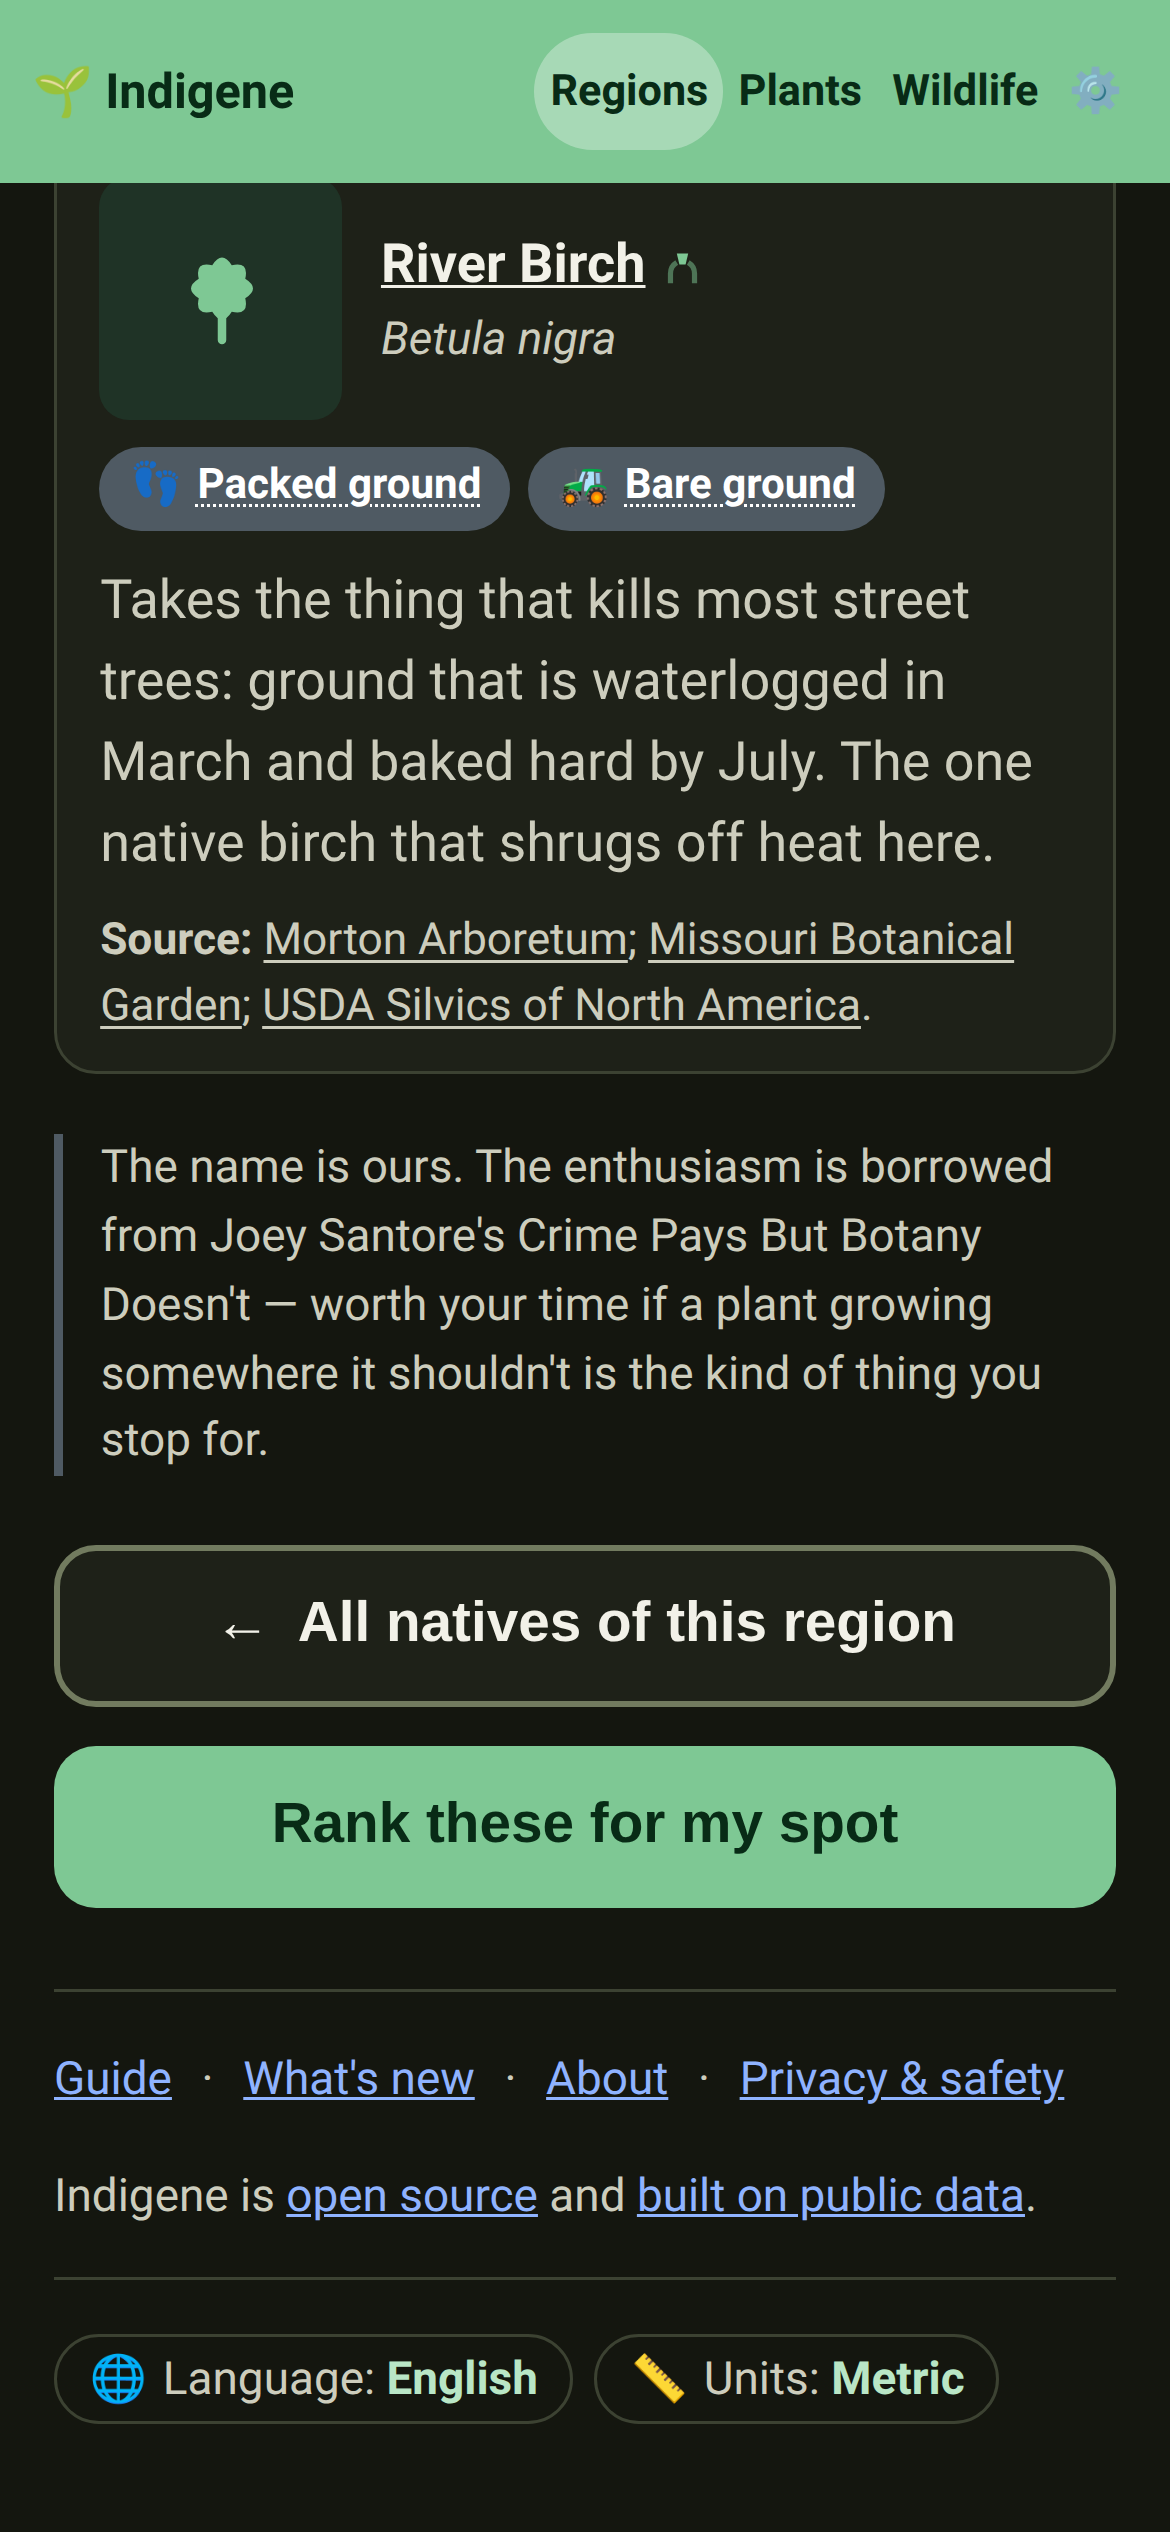
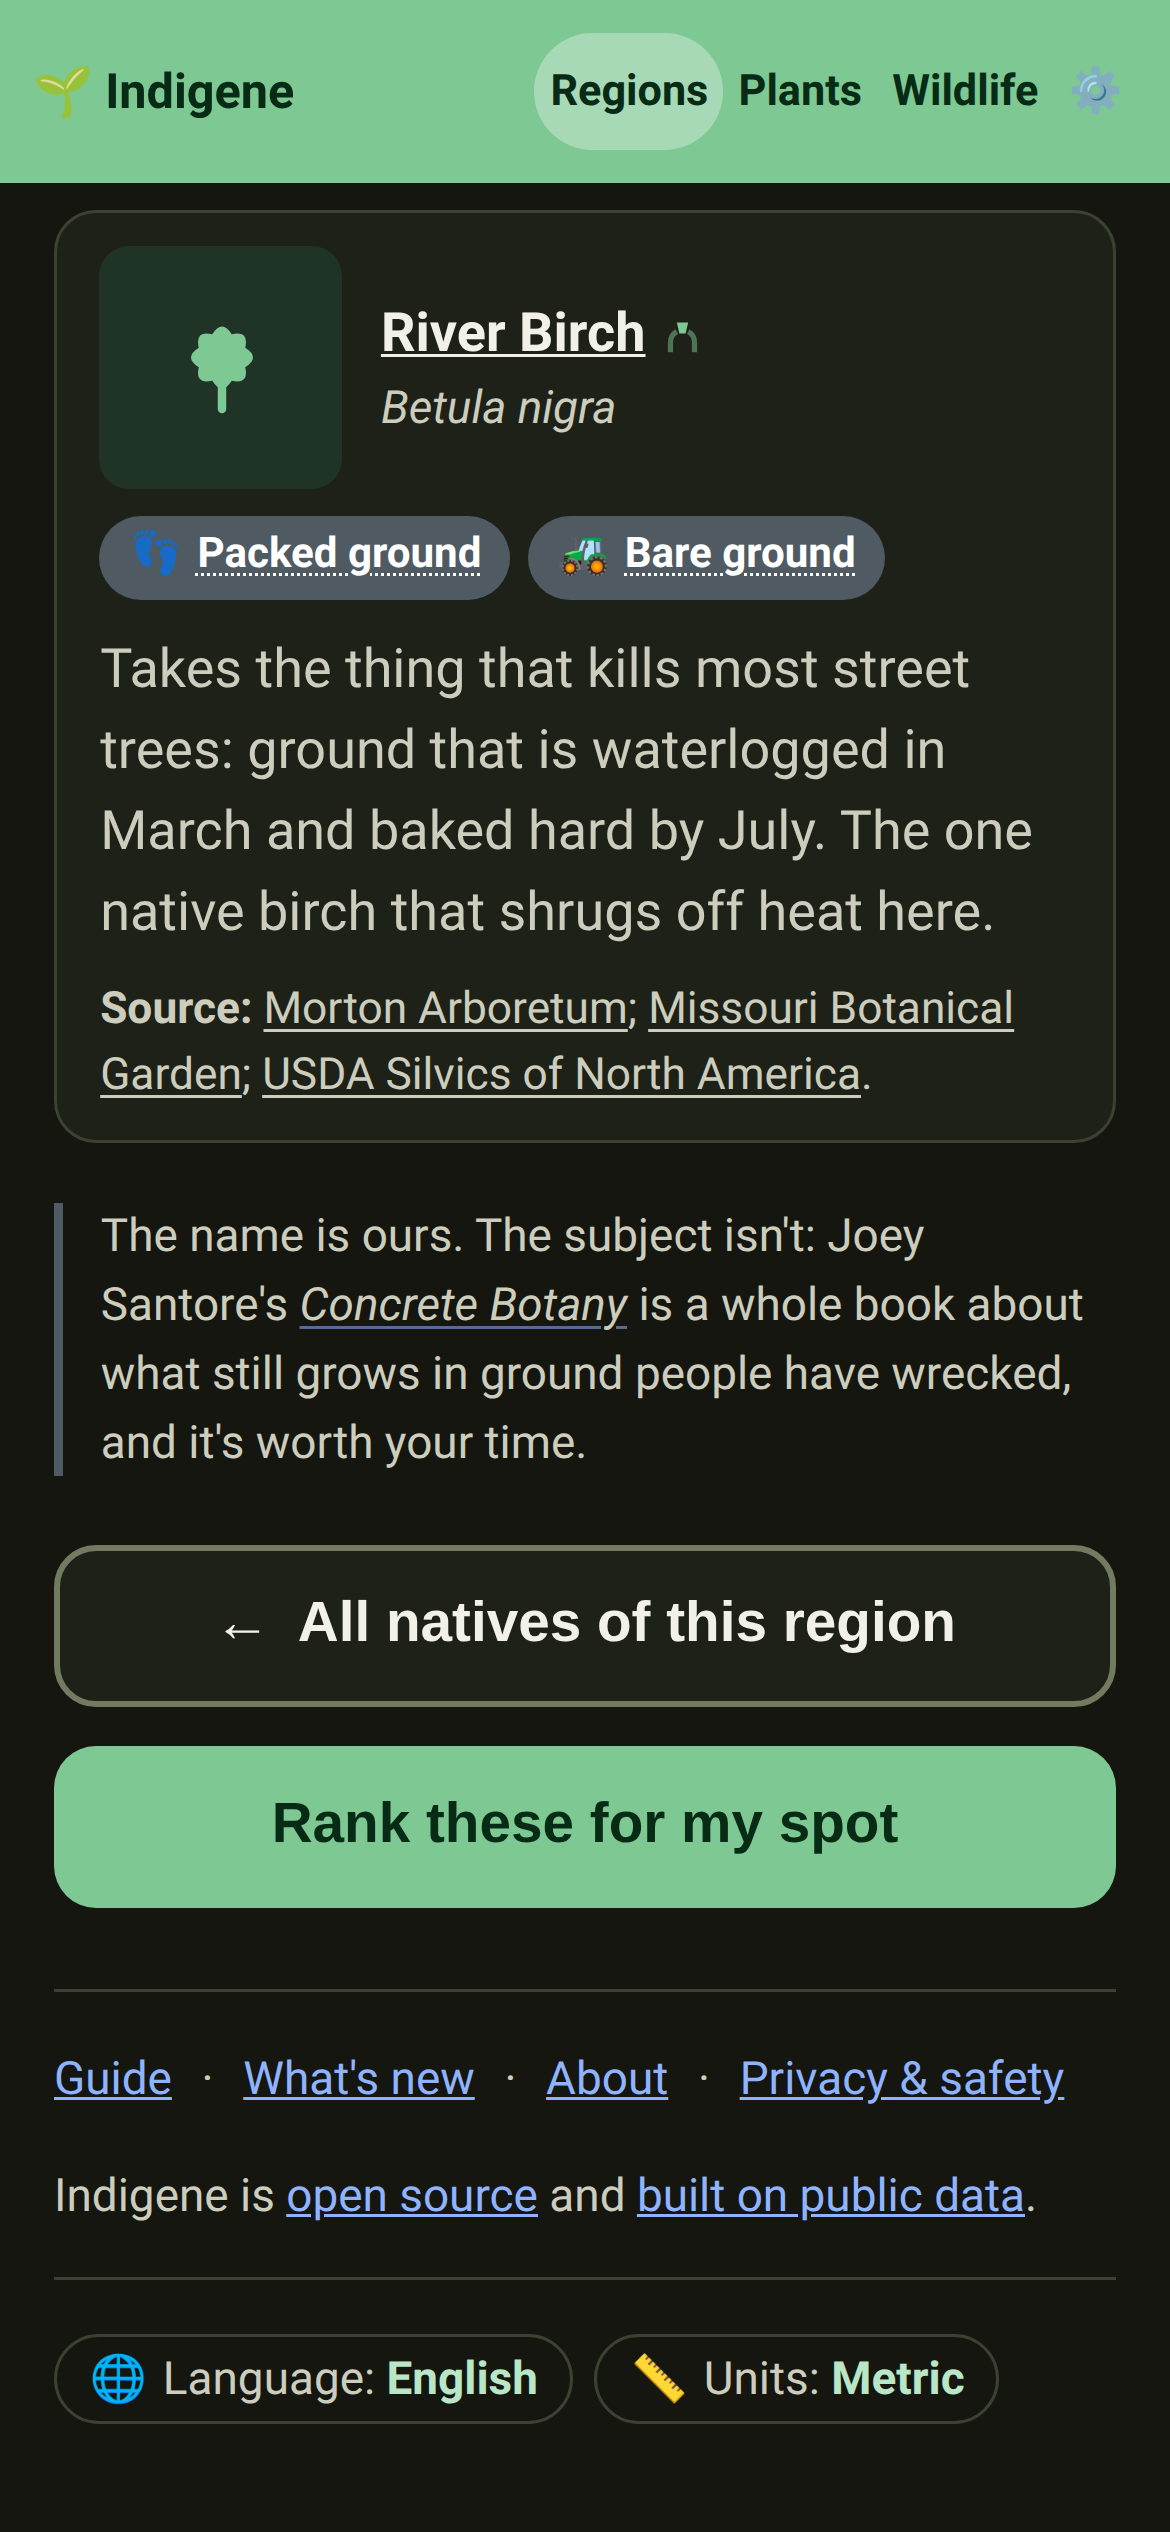
Point the credit at Concrete Botany, Joey Santore's own book
He has a book on precisely this subject — "Concrete Botany: The Ecology of
Plants in the Age of Human Disturbance" (Cool Springs Press, 2026) — which
is a far better thing to send a reader to than a line about borrowed
enthusiasm. The closing line now recommends it, with the title a real link
to his own site rather than to a bookshop.

It stays a recommendation, not a tribute: he had no part in this list, and
the comments beside the string say so. The feature keeps its own name for
the same reason — calling it "Concrete botany" would be taking his title,
not nodding at it.

The title is rendered through `tx()` so a translator can put it where the
sentence wants it, and `.pioneers-credit` joins the quiet-link rule, so a
link in running text doesn't read as a paragraph of blue.

Claude-Session: https://claude.ai/code/session_01U3cNzL1pWVvwMeWKm6oVEn

Changed region(s): [[0.0615, 0.0624, 0.9231, 0.5928], [0.9231, 0.4056, 0.9538, 0.4368], [0.0308, 0.4368, 0.0615, 0.468]]

diff --git a/app/src/steps/region.ts b/app/src/steps/region.ts
@@ -22,11 +22,11 @@ import { wildlifeRegionGroups } from "../components/wildlife-chips";
 import { wildlifeIndex } from "../lib/wildlife";
 import { pioneerCard } from "../components/pioneer-card";
 import { pioneersForRegion, pioneerCountForRegion } from "../lib/pioneers";
-import { PIONEER_ICON } from "../data/pioneers";
+import { PIONEER_ICON, CONCRETE_BOTANY_URL } from "../data/pioneers";
 import { regionRefLine, zoneChip } from "../components/zone-chip";
 import { regionBoundaryCard } from "../components/region-boundary";
 import type { Plant, PlantForm } from "../types";
-import { t, tn, fmtNumber, getLang } from "../lib/i18n";
+import { t, tn, tx, fmtNumber, getLang } from "../lib/i18n";
 import { commonName, nameLines, regionName, regionNote, regionReference, localNameCoverage } from "../lib/names";
 import { flagRow } from "../components/flags";
 import { prose } from "../lib/prose";
@@ -248,7 +248,15 @@ function renderPioneers(main: HTMLElement, region: RegionDef, plants: Plant[]): 
     categoryChips(region, plants, PIONEERS_SLUG),
     el("div", { class: "card-grid" },
       picks.map((pick) => pioneerCard(pick, region.meta.id, { full: true }))),
-    el("p", { class: "pioneers-credit" }, t("pioneers.credit")),
+    // The book is a real link, placed by the translator rather than by this
+    // code: `tx` lets French put the title where the sentence wants it.
+    el("p", { class: "pioneers-credit" }, tx("pioneers.credit", {
+      book: el("a", {
+        href: CONCRETE_BOTANY_URL,
+        target: "_blank",
+        rel: "noopener",
+      }, el("cite", {}, t("pioneers.creditBook"))),
+    })),
     el("div", { class: "btn-row", style: "margin-top:1.25rem" }, [
       el("button", { class: "btn btn-secondary", onClick: () => navigate(`regions/${region.meta.id}`) }, t("region.allOfRegion")),
       el("button", { class: "btn btn-primary", onClick: () => navigate("location") }, t("wildlife.rankForSpot")),

diff --git a/app/src/locales/fr.ts b/app/src/locales/fr.ts
@@ -1792,8 +1792,8 @@ export const fr: Dict = {
   // ---------------------------------------------------------------------
   // Les pionnières du bitume — la courte liste pour le sol qu'une ville
   // offre vraiment. Le nom est de nous : Joey Santore ne l'a pas inventé et
-  // n'a pris aucune part à la liste, donc la ligne de fin salue sa chaîne
-  // sans parler en son nom. Le titre de la chaîne reste en anglais.
+  // n'a pris aucune part à la liste, donc la ligne de fin recommande son
+  // livre sans parler en son nom. Son titre reste en anglais, non traduit.
   // ---------------------------------------------------------------------
   "pioneers.title": "Pionnières du bitume",
   "pioneers.chip": "Pionnières",
@@ -1808,7 +1808,8 @@ export const fr: Dict = {
     "Nous n'avons pas encore déterminé lesquelles de nos indigènes de {region} supportent ce genre de traitement.",
   "pioneers.basis": "Source :",
   "pioneers.credit":
-    "Le nom est de nous. L'enthousiasme, nous l'avons emprunté à Crime Pays But Botany Doesn't, la chaîne de Joey Santore — à voir si une plante qui pousse là où elle ne devrait pas est le genre de chose qui vous arrête.",
+    "Le nom est de nous. Le sujet, non : {book}, de Joey Santore, est un livre entier sur ce qui pousse encore là où l\'on a saccagé le sol. Il vaut le détour.",
+  "pioneers.creditBook": "Concrete Botany",
 
   // Ce que chacune encaisse. Le terme tient dans l'étiquette ; les mots
   // simples s'ouvrent d'une touche, parce que « tassement » est un mot de

diff --git a/app/src/locales/en.ts b/app/src/locales/en.ts
@@ -1801,8 +1801,8 @@ export const en = {
   // ---------------------------------------------------------------------
   // Pavement pioneers — the short list for ground a city actually offers.
   // The name is this repo's; Joey Santore neither coined it nor had any part
-  // in the list, so the credit line is a nod to the channel, not a claim of
-  // involvement. Don't let it drift back into speaking for him.
+  // in the list, so the credit line recommends his book and never speaks for
+  // him. Don't let it drift back into claiming he was involved.
   // ---------------------------------------------------------------------
   "pioneers.title": "Pavement pioneers",
   "pioneers.chip": "Pioneers",
@@ -1817,7 +1817,8 @@ export const en = {
     "We haven't worked out which of our {region} natives take that kind of punishment yet.",
   "pioneers.basis": "Source:",
   "pioneers.credit":
-    "The name is ours. The enthusiasm is borrowed from Joey Santore's Crime Pays But Botany Doesn't — worth your time if a plant growing somewhere it shouldn't is the kind of thing you stop for.",
+    "The name is ours. The subject isn't: Joey Santore's {book} is a whole book about what still grows in ground people have wrecked, and it's worth your time.",
+  "pioneers.creditBook": "Concrete Botany",
 
   // The abuse each one takes. The term is the chip; the plain words open on a
   // tap, because "compaction" is a word from an engineering report.

diff --git a/app/src/data/pioneers.ts b/app/src/data/pioneers.ts
@@ -13,10 +13,22 @@
 //      ninth candidate is better than one already here, swap it; don't append.
 //
 // "Pavement pioneers" is this repo's own name — nobody else's phrase to get
-// wrong. The page's closing line nods to Joey Santore's Crime Pays But Botany
-// Doesn't for the enthusiasm; he had no part in the list, and the credit must
-// not drift into implying he did.
+// wrong, and deliberately not his book's title, which would be taking
+// something rather than nodding at it.
+//
+// The page's closing line points at that book instead: Joey Santore's
+// `Concrete Botany: The Ecology of Plants in the Age of Human Disturbance`
+// (Cool Springs Press, 2026) is about this layer's exact subject — what still
+// grows in ground people have wrecked. He had no part in this list, so the
+// credit recommends his work and never speaks for him. Keep it that way.
+//
+// Linked to his own site rather than a bookshop: a recommendation should send
+// a reader to the person, not to a retailer.
 import type { PioneerEntry, PioneerPressure } from "../types";
+
+/** Joey Santore's own site, where `Concrete Botany` lives. See the note above
+ *  for why this link is to him and not to a bookshop. */
+export const CONCRETE_BOTANY_URL = "https://www.crimepaysbutbotanydoesnt.com/";
 
 /**
  * The pressures, in the order they're shown wherever several appear together.

diff --git a/app/src/styles.css b/app/src/styles.css
@@ -152,6 +152,7 @@ a {
 .note a:not(.btn),
 .kv a,
 .step-lede a,
+.pioneers-credit a,
 .region-tag a {
   color: inherit;
   text-decoration: underline;
@@ -159,7 +160,7 @@ a {
   text-underline-offset: 2px;
   text-decoration-color: color-mix(in srgb, var(--focus) 55%, transparent);
 }
-:is(.privacy-page > p, .privacy-page > :is(ul, ol) > li, .note, .kv, .step-lede, .region-tag) a:is(:hover, :focus-visible) {
+:is(.privacy-page > p, .privacy-page > :is(ul, ol) > li, .note, .kv, .step-lede, .pioneers-credit, .region-tag) a:is(:hover, :focus-visible) {
   color: var(--focus);
   text-decoration-color: currentColor;
 }
@@ -3582,6 +3583,12 @@ details.weights {
   color: var(--ink-soft);
   border-left: 3px solid #4f5a63;
   padding-left: 0.7rem;
+}
+/* The book's title sits in running text, so it keeps the text's colour with a
+   soft underline — the quiet-link rule. `cite` is the element for a work's
+   title; browsers italicise it, which is what a title wants anyway. */
+.pioneers-credit cite {
+  font-style: italic;
 }
 .lookalike-card .lookalike-head {
   gap: 0.5rem;

diff --git a/changelog.d/pavement-pioneers.md b/changelog.d/pavement-pioneers.md
@@ -9,9 +9,9 @@
   it. Shown only on the regions where it's documented.
 - Internal: `data/pioneers.ts` is a region → plant id side table beside the
   wildlife and look-alike ones; 127 rows across all 15 regions. The page closes
-  with a nod to Joey Santore's Crime Pays But Botany Doesn't — our name, not
-  his phrase. Nine authorities added to `data/sources.ts`, led by the USFS Fire
-  Effects Information System and the MNHN's Sauvages de ma rue.
+  by recommending Joey Santore's *Concrete Botany*, which is about this exact
+  subject — our name, not his. Nine authorities added to `data/sources.ts`, led
+  by the USFS Fire Effects Information System and the MNHN's Sauvages de ma rue.
 - Internal: `lib/traits.ts`'s `traitsFor()` takes an optional region, because
   the pioneer label is a claim about one region's conditions; a caller without
   one never gets it. `check-prose.mjs` counts `pioneerNote`, so a region can no
